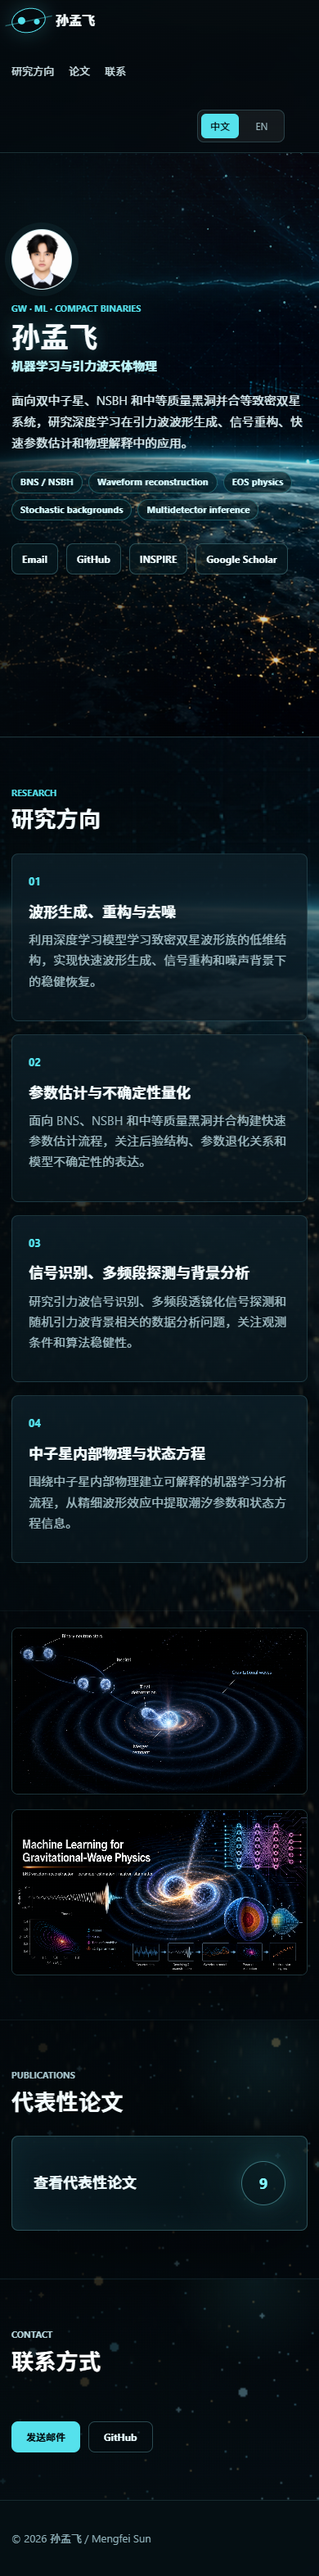
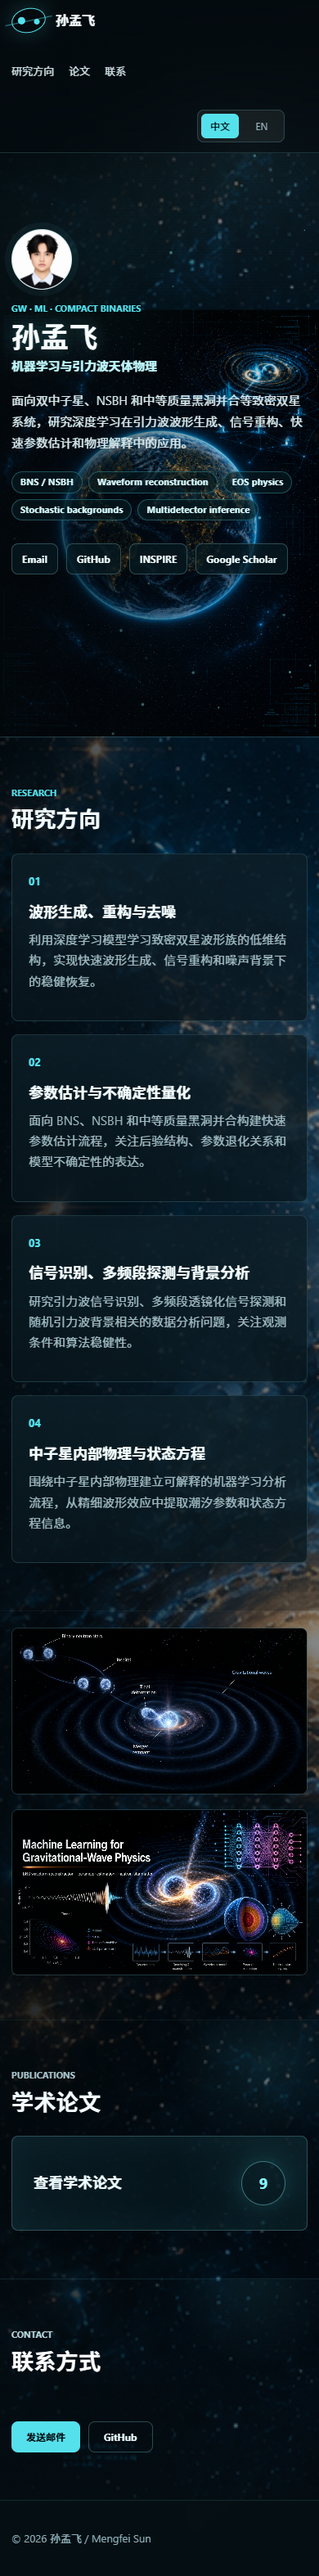
Update homepage background assets

diff --git a/index.html b/index.html
@@ -39,7 +39,7 @@
 
     <main id="main">
       <section class="hero-section" aria-label="Academic profile">
-        <img class="hero-backdrop" src="assets/img/hero-earth-observatory.png" alt="" aria-hidden="true" />
+        <img class="hero-backdrop hero-backdrop-earth" src="assets/img/hero-earth-full.png" alt="" aria-hidden="true" />
         <canvas class="hero-canvas" id="cosmic-canvas" aria-hidden="true"></canvas>
         <div class="hero-noise" aria-hidden="true"></div>
 
@@ -140,11 +140,11 @@
         <div class="section-inner">
           <div class="section-heading compact-heading">
             <p class="section-kicker">Publications</p>
-            <h2 data-lang="zh">代表性论文</h2>
+            <h2 data-lang="zh">学术论文</h2>
             <h2 data-lang="en">Publications</h2>
           </div>
           <a class="publication-portal" href="publications.html">
-            <span data-lang="zh">查看代表性论文</span>
+            <span data-lang="zh">查看学术论文</span>
             <span data-lang="en">View Publications</span>
             <strong>9</strong>
           </a>

diff --git a/assets/css/styles.css b/assets/css/styles.css
@@ -33,7 +33,7 @@ body {
   background:
     linear-gradient(90deg, rgba(2, 7, 10, 0.74) 0%, rgba(2, 7, 10, 0.52) 34%, rgba(2, 7, 10, 0.16) 68%, rgba(2, 7, 10, 0.08) 100%),
     linear-gradient(180deg, rgba(2, 7, 10, 0.08) 0%, rgba(2, 7, 10, 0.34) 52%, rgba(2, 7, 10, 0.42) 100%),
-    url("../img/hero-earth-observatory-body.png") center top / cover,
+    url("../img/cosmic-depthfield.png") center top / cover,
     var(--bg);
   font-family: Inter, "Segoe UI", "Noto Sans SC", "Microsoft YaHei", Arial, sans-serif;
   font-size: clamp(15px, 0.2vw + 14px, 17px);
@@ -269,6 +269,14 @@ p {
   object-position: center center;
   opacity: 1;
   filter: saturate(1.08) contrast(1.04) brightness(1.08);
+}
+
+.hero-backdrop-earth {
+  object-fit: contain;
+  object-position: center bottom;
+  opacity: 0.94;
+  filter: saturate(1.06) contrast(1.02) brightness(1.02);
+  transform: scale(1.02);
 }
 
 .hero-backdrop-merger {

diff --git a/publications.html b/publications.html
@@ -43,7 +43,7 @@
         <div class="section-inner">
           <div class="section-heading compact-heading publication-page-heading">
             <p class="section-kicker">Publications</p>
-            <h1 data-lang="zh">代表性论文</h1>
+            <h1 data-lang="zh">学术论文</h1>
             <h1 data-lang="en">Publications</h1>
           </div>
           <div class="publication-list" id="publication-list" aria-live="polite"></div>
